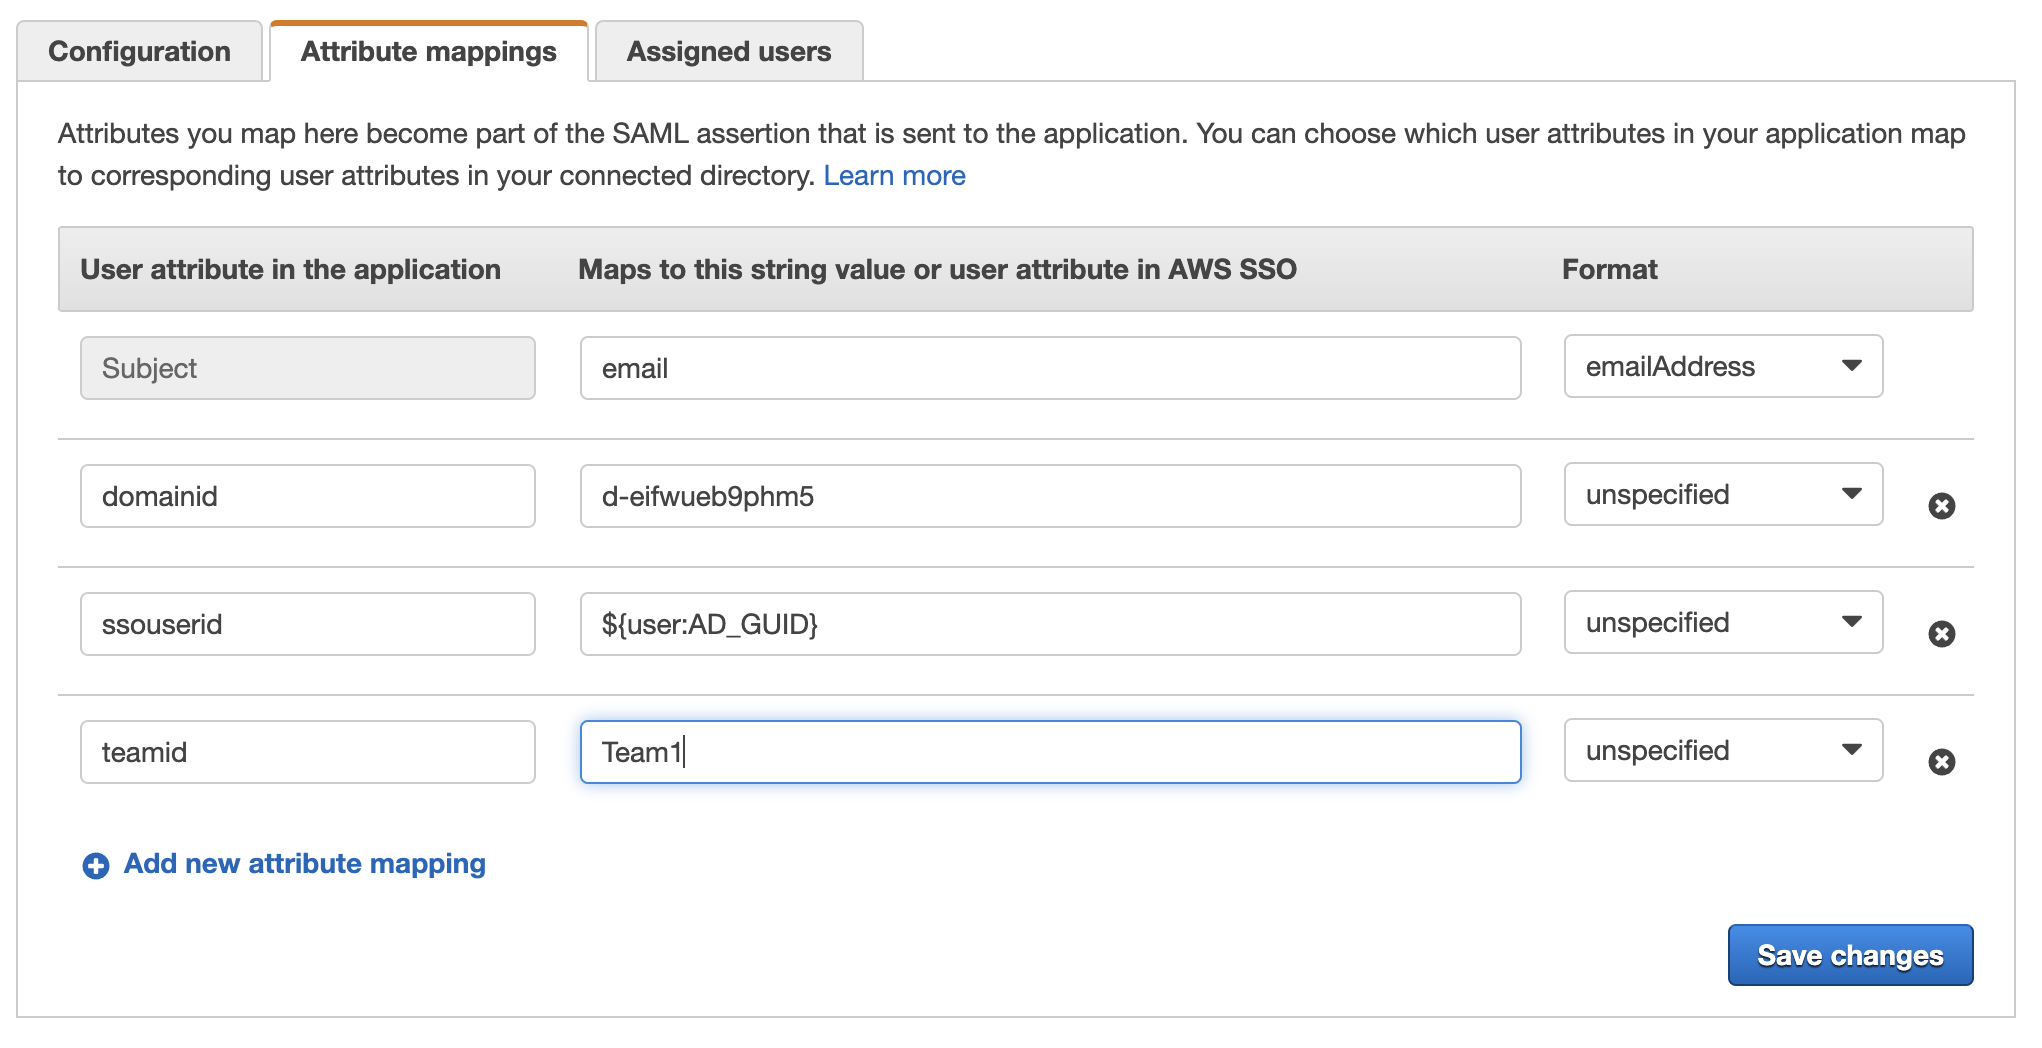
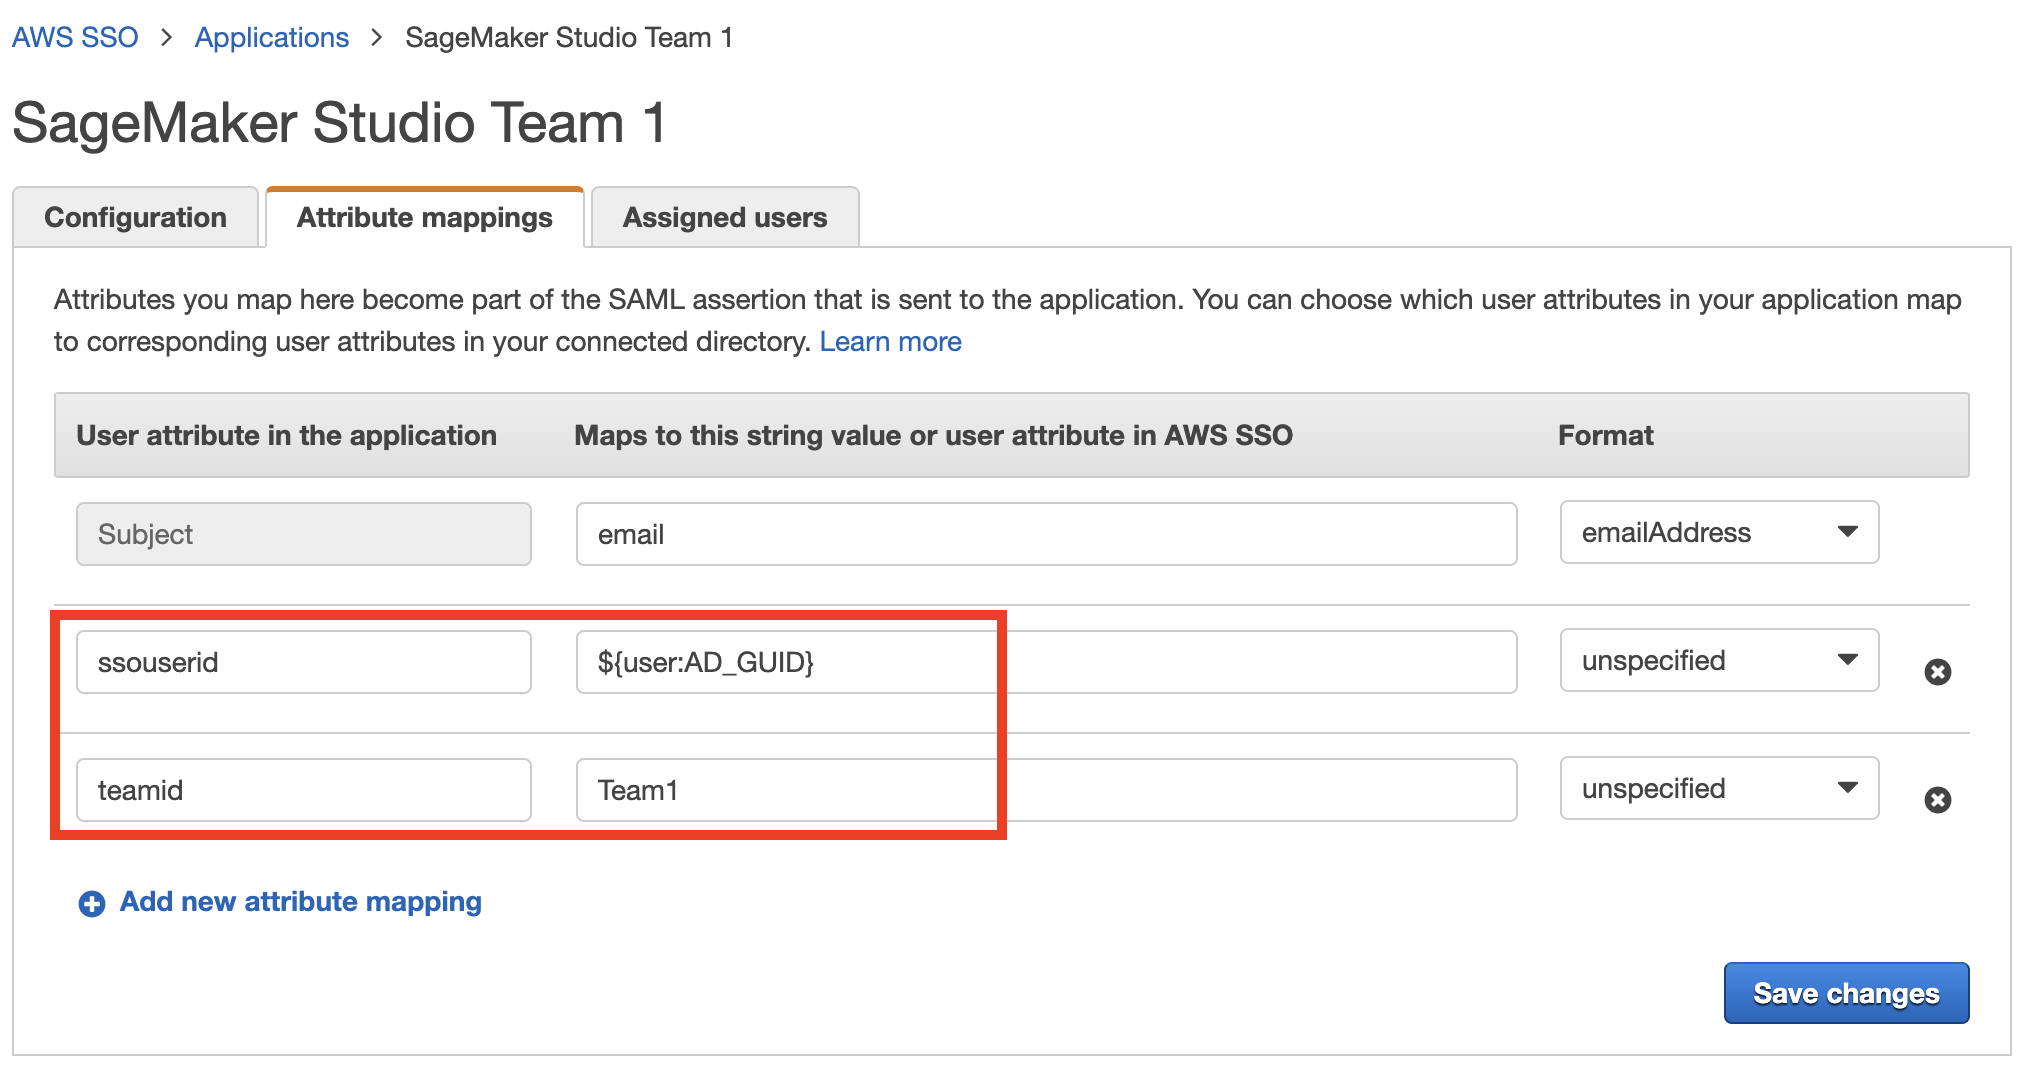
dynamic user profiles intermediate checkin

diff --git a/functions/inline/get_user_profile_metadata.py b/functions/inline/get_user_profile_metadata.py
@@ -2,7 +2,9 @@
 # SPDX-License-Identifier: MIT-0
 
 import json
+import boto3
 import cfnresponse
+from botocore.exceptions import ClientError
 
 def lambda_handler(event, context):
     try:

diff --git a/README.md b/README.md
@@ -28,7 +28,7 @@ The main high-level architecture components are:
 Users and groups are managed in an external identity source, for example in Azure Active Directory. User assignments to AD groups define what permissions a particular user has and which SageMaker Studio "team" they have access to. The identity source must by synchronized with AWS SSO.
 
 **2 - AWS Single Sign-On**  
-AWS Single Sign-On service manages SSO users, SSO permission set, and applications. This solution uses custom a SAML 2.0 application to provide access to Amazon SageMaker Studio for entitled SSO users. The solution also uses SAML attribute mapping to populate the SAML assertion with specific access-relevant data, such as SageMaker domain id, user id, and user team.
+AWS Single Sign-On service manages SSO users, SSO permission set, and applications. This solution uses custom a SAML 2.0 application to provide access to Amazon SageMaker Studio for entitled SSO users. The solution also uses SAML attribute mapping to populate the SAML assertion with specific access-relevant data, such as user id and user team.
 
 **3 - custom SAML 2.0 applications**  
 The solution creates one application per SageMaker Studio team and assigns one or multiple applications to a user or a user group based on entitlements. Users can access these applications from within their SSO user portal based on assigned permissions. Each application is configured with the [Amazon API Gateway](https://aws.amazon.com/api-gateway/) endpoint URL as its SAML backend. 
@@ -37,7 +37,7 @@ The solution creates one application per SageMaker Studio team and assigns one o
 The solution provisions a SageMaker domain in an AWS account and creates a dedicated user profile for each combination of SSO user and Studio team the user is assigned to. The domain must be configured in IAM [authentication mode](https://docs.aws.amazon.com/sagemaker/latest/dg/onboard-iam.html).
 
 **5 - Studio user profiles**  
-You must provision a dedicated user profile for each _user-team_ combination. For example, if a user is a member of two Studio teams and has corresponding permissions, you need to provision two separate user profiles for this user. Each profile always belongs to one and only one user.
+The solution automatically creates a dedicated user profile for each _user-team_ combination. For example, if a user is a member of two Studio teams and has corresponding permissions, the solution provisions two separate user profiles for this user. Each profile always belongs to one and only one user.
 
 To demonstrate the configuration, we use two users, _User 1_, _User 2_, and two Studio teams, _Team 1_, _Team 2_. The _User 1_ belongs to both teams, while the _User 2_ belongs to _Team 2_ only. The _User 1_ can access Studio environments for both teams, while the _User 2_ can access only the Studio environment for _Team 2_.
 
@@ -54,17 +54,46 @@ The following diagram presents the end-to-end sign-on flow for an AWS SSO user:
 
 ![](design/solution-flow.drawio.svg)
 
-An AWS SSO user clicks on a corresponding Studio application in their SSO portal. AWS SSO prepares a SAML assertion (**1**) with configured SAML attribute mappings. A custom SAML application is configured with the Amazon API Gateway endpoint URL as its Assertion Consumer Service (ACS), and needs mapping attributes containing the AWS SSO user ID, team ID, as well as the SageMaker domain ID. We use `domainid`, `ssouserid`, and `teamid` custom attributes to send all needed information to the SAML backend. 
+An AWS SSO user clicks on a corresponding Studio application in their SSO portal. AWS SSO prepares a SAML assertion (**1**) with configured SAML attribute mappings. A custom SAML application is configured with the Amazon API Gateway endpoint URL as its Assertion Consumer Service (ACS), and needs mapping attributes containing the AWS SSO user ID and team ID. We use `ssouserid` and `teamid` custom attributes to send all needed information to the SAML backend. 
 
-The API Gateway calls an SAML backend API. AWS Lambda function (**2**) implements the API, parses the SAML response to extract the domain ID, user ID, and team ID and uses them to generate a Studio presigned URL for a specific Studio user profile by calling [`CreatePresignedDomainUrl`](https://docs.aws.amazon.com/sagemaker/latest/APIReference/API_CreatePresignedDomainUrl.html) API (**3**) via a SageMaker API VPC endpoint. The Lambda function finally returns the presigned URL with HTTP 302 redirection response (**4**) to sign the user in Studio.
+The API Gateway calls an SAML backend API. AWS Lambda function (**2**) implements the API, parses the SAML response to extract the user ID and team ID. The function uses these attributes to retrieve a team-specific configuration, such as an execution role and SageMaker domain ID. The backend function checks if a required user profile exists in the domain, and creates a new one with the corresponding configuration settings if no profile exists. Afterwards, the function generates a Studio presigned URL for a specific Studio user profile by calling [`CreatePresignedDomainUrl`](https://docs.aws.amazon.com/sagemaker/latest/APIReference/API_CreatePresignedDomainUrl.html) API (**3**) via a SageMaker API VPC endpoint. The Lambda function finally returns the presigned URL with HTTP 302 redirection response (**4**) to sign the user in Studio.
 
 ❗ The solution implements **a non-production sample** version of an SAML backend. The Lambda function parses the SAML assertion and uses only attributes in `<saml2:AttributeStatement>` element to construct a `CreatePresignedDomainUrl` API call. 
 In your production solution you must use a proper SAML backend implementation which must include a validation of an SAML response, a signature, and certificates, replay and redirect prevention, and any other features of an SAML authentication process. For example, you can use a [python3-saml SAML backend implementation](https://python-social-auth.readthedocs.io/en/latest/backends/saml.html) or 
 [OneLogin open source SAML toolkit](https://developers.onelogin.com/saml/python) to implement a secure SAML backend.
 
 ### Dynamic creation of Studio user profiles
+The solution automatically creates Studio user profiles for each combination _User-Team_, as soon as the SSO sign-in process requests a presigned URL. The creation of a user profile is based on the configured metadata in the [SAM template](./template.yaml):
+```yaml
+Metadata:
+  Team1:
+    DomainId: !If 
+      - CreateSageMakerDomainCondition
+      - !GetAtt SageMakerDomain.Outputs.SageMakerDomainId
+      - !Ref SageMakerDomainId
+    SessionExpiration: 43200
+    Tags:
+      - Key: Team
+        Value: Team1
+    UserSettings:
+      ExecutionRole: !GetAtt IAM.Outputs.SageMakerStudioExecutionRoleTeam1Arn
+  Team2:
+    DomainId: !If 
+      - CreateSageMakerDomainCondition
+      - !GetAtt SageMakerDomain.Outputs.SageMakerDomainId
+      - !Ref SageMakerDomainId
+    SessionExpiration: 43200
+    Tags:
+      - Key: Team
+        Value: Team2
+    UserSettings:
+      ExecutionRole: !GetAtt IAM.Outputs.SageMakerStudioExecutionRoleTeam2Arn
+```
 
-https://boto3.amazonaws.com/v1/documentation/api/latest/reference/services/sagemaker.html#SageMaker.Client.create_user_profile
+You can configure own teams, custom settings, and tags simply by adding them to the metadata configuration for the CloudFormation resource `GetUserProfileMetadata`. 
+Refer to the `create_user_profile` boto3 [documentation](https://boto3.amazonaws.com/v1/documentation/api/latest/reference/services/sagemaker.html#SageMaker.Client.create_user_profile) for a further configuration elements of `UserSettings`.
+
+In your productive solution you can use a dedicated microservice to manage and retrieve user profile metadata. For example, you also can use [Amazon DynamoDB](https://aws.amazon.com/dynamodb) to store and manage the metadata.
 
 ### IAM roles
 The following diagram shows the IAM roles in this solution:
@@ -333,61 +362,6 @@ aws cloudformation describe-stacks \
 ### Create SSO users
 Follow [add AWS SSO user instructions](./aws-sso-setup.md#add-aws-sso-users) to create two users with names `User1` and `User2` or use any two of your existing AWS SSO users to test the solution. Make sure you use AWS SSO in the same AWS region in which you deployed the solution.  Retrieve the identity store id which you need for the next step.
 
-### Create SageMaker Studio user profiles
-Retrieve SSO user id for each of the selected two users:
-```sh
-export SSO_STORE_ID=<Identity Store ID>
-export SSO_USER1_NAME=<User 1 Name>
-export SSO_USER2_NAME=<User 1 Name>g
-
-export SSO_USER1_ID=$(aws identitystore list-users --identity-store-id $SSO_STORE_ID --filter AttributePath='UserName',AttributeValue=$SSO_USER1_NAME --query 'Users[0].UserId' --output text)
-export SSO_USER2_ID=$(aws identitystore list-users --identity-store-id $SSO_STORE_ID --filter AttributePath='UserName',AttributeValue=$SSO_USER2_NAME --query 'Users[0].UserId' --output text)
-```
-
-Retrieve the domain id:
-```sh
-export DOMAIN_ID=$(aws sagemaker list-domains --output text --query 'Domains[0].DomainId')
-```
-
-Retrieve SageMaker execution roles for each of the teams:
-```sh
-export STACK_NAME=<SAM stack name>
-export EXEC_ROLE_TEAM1=$(aws cloudformation describe-stacks --stack-name $STACK_NAME | jq -r '.Stacks[].Outputs[] | select(.OutputKey=="SageMakerStudioExecutionRoleTeam1Arn") | .OutputValue')
-export EXEC_ROLE_TEAM2=$(aws cloudformation describe-stacks --stack-name $STACK_NAME | jq -r '.Stacks[].Outputs[] | select(.OutputKey=="SageMakerStudioExecutionRoleTeam2Arn") | .OutputValue')
-```
-
-Create three Studio user profiles for _User 1 - Team 1_, _User 1 - Team 2_, and _User 2 - Team 2_ combinations. You must set `studiouserid` tag to a unique value for each user:
-
-```sh
-aws sagemaker create-user-profile \
-  --domain-id $DOMAIN_ID \
-  --user-profile-name $SSO_USER1_ID-Team1 \
-  --tags Key=studiouserid,Value=ilyiny+demo@amazon.com \
-  --user-settings ExecutionRole=$EXEC_ROLE_TEAM1
-
-aws sagemaker create-user-profile \
-  --domain-id $DOMAIN_ID \
-  --user-profile-name $SSO_USER1_ID-Team2 \
-  --tags Key=studiouserid,Value=ilyiny+demo@amazon.com \
-  --user-settings ExecutionRole=$EXEC_ROLE_TEAM2
-
-aws sagemaker create-user-profile \
-  --domain-id $DOMAIN_ID \
-  --user-profile-name $SSO_USER2_ID-Team2 \
-  --tags Key=studiouserid,Value=ilyiny+demo-sm-sso-2@amazon.com \
-  --user-settings ExecutionRole=$EXEC_ROLE_TEAM2
-```
-
-If you need to see the tags assigned to a user profile, you must run the following AWS CLI command:
-```sh
-export USER_PROFILE_ARN=$(aws sagemaker describe-user-profile \
-  --user-profile-name <user-profile-name> \
-  --domain-id $DOMAIN_ID \
-  --output text --query 'UserProfileArn')
-
-aws sagemaker list-tags --resource-arn $USER_PROFILE_ARN
-```
-
 ### Create custom SAML 2.0 applications
 Open the [AWS SSO console](https://console.aws.amazon.com/singlesignon) on the AWS management account of your AWS Organizations. Make sure you select the same region as the one where you deployed the solution stack.
 
@@ -407,7 +381,6 @@ Do the following steps for **each** of two required custom SAML 2.0 applications
 10. Go to the **Attribute mappings** tab
 11. Set the Subject to **email** and format **emailAddress**
 12. Add new attributes:
-    - `domainid` set to the value of `SageMakerDomainId` key of the SAM stack output
     - `ssouserid` set to `${user:AD_GUID}`
     - `teamid` set to `Team1` or `Team2` respectively for each of the two applications
 
